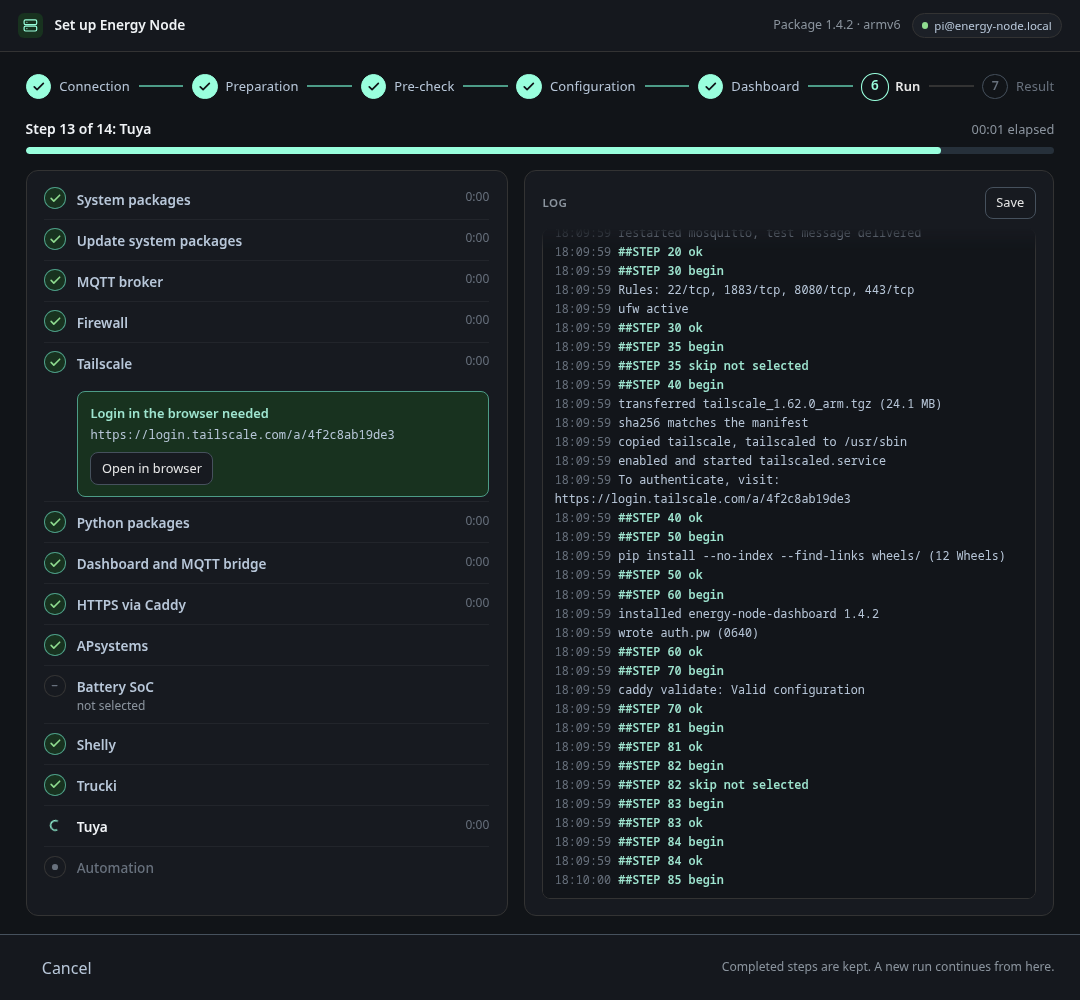
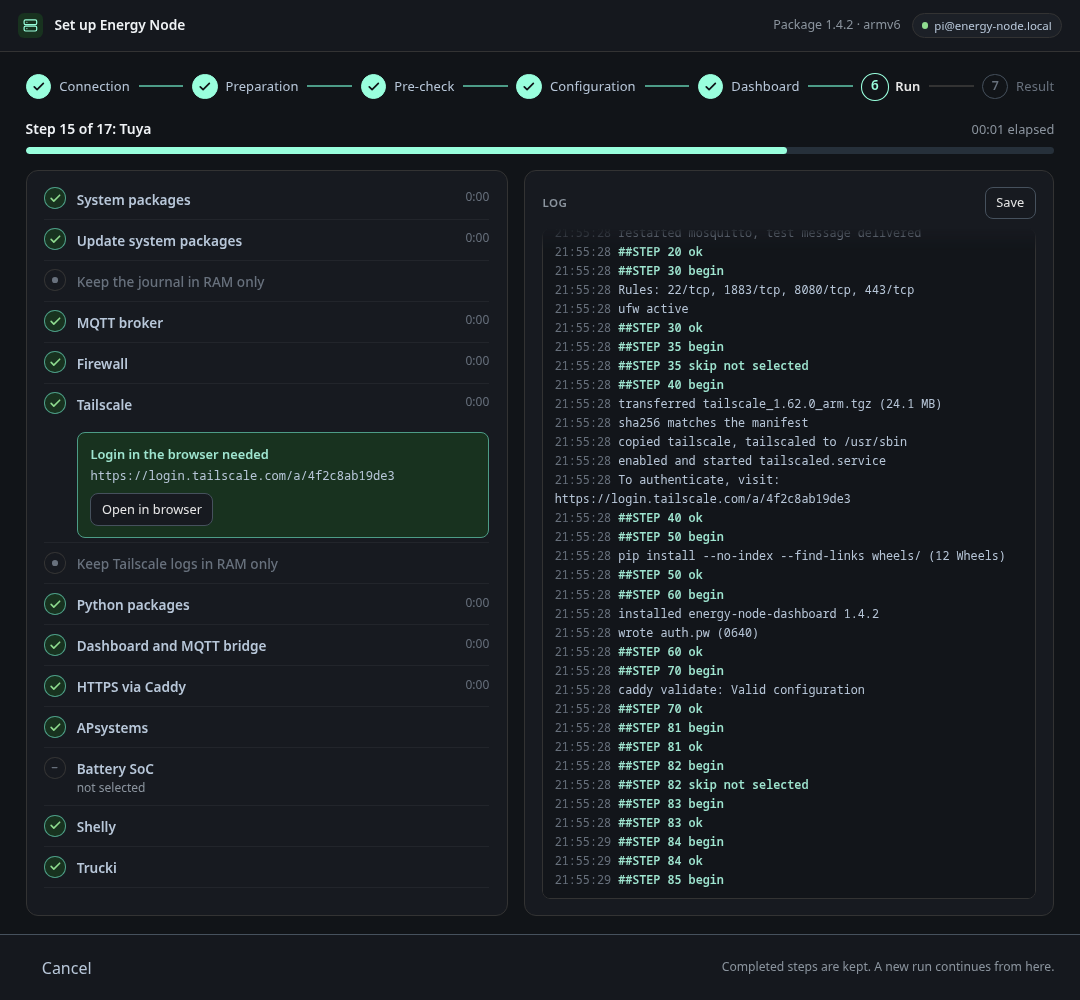
test(installer): show the journal and tailscale log steps in the fakehost
The default fakehost scenario now carries the optional journal step 17
(off), the Tailscale log step 41 (on, requires 40) and the example step
89 (on, first install only). The --journal-step flag is removed, the
update scenario keeps 89 as modbus. The installer-run and
installer-configure screenshots are regenerated with the new steps.

diff --git a/installer/webui/cmd/fakehost/scenario.go b/installer/webui/cmd/fakehost/scenario.go
@@ -5,7 +5,6 @@ import (
 	"encoding/json"
 	"fmt"
 	"net/http"
-	"sort"
 	"strconv"
 	"strings"
 	"sync"
@@ -38,9 +37,6 @@ type options struct {
 	// deltaVerifyFails: die Teilübertragung besteht die Prüfung auf dem Gerät
 	// nicht. Erst die ganze Übertragung (force_full_transfer) gelingt.
 	deltaVerifyFails bool
-	// journalStep: das Manifest enthält den optionalen Schritt 17 (Journal nur
-	// im Arbeitsspeicher). Die Vorlage kennt ihn nicht, darum nur auf Wunsch.
-	journalStep bool
 	// packageOffline: diese Pakete lassen sich nicht herunterladen und sind auf
 	// dem Gerät nicht installiert. Vorbereiten fragt, bis je Paket "repo" oder
 	// "skip" geantwortet ist.
@@ -368,9 +364,11 @@ func newScenario(name string, opts options) *stagedBackend {
 	steps := []hostapi.StepView{
 		{ID: "10"},
 		{ID: "15", Optional: true, Default: true},
+		{ID: "17", Optional: true, Default: false},
 		{ID: "20"}, {ID: "30"},
 		{ID: "35", Optional: true, Default: false, Requires: "83"},
 		{ID: "40", Optional: true, Default: true},
+		{ID: "41", Optional: true, Default: true, Requires: "40"},
 		{ID: "50"}, {ID: "60"},
 		{ID: "70", Optional: true, Default: true},
 		{ID: "81", ServiceID: "apsystems", Unit: "apsystems-ez1.service", Optional: true, Default: true, Kind: "device"},
@@ -380,14 +378,11 @@ func newScenario(name string, opts options) *stagedBackend {
 		{ID: "85", ServiceID: "tuya", Unit: "tuya.service", Optional: true, Default: true, Kind: "device"},
 		{ID: "88", ServiceID: "automation", Unit: "automation.service", Optional: true, Default: true, Kind: "service"},
 	}
-	if opts.journalStep {
-		steps = append(steps, hostapi.StepView{ID: "17", Optional: true, Default: false})
-		sort.SliceStable(steps, func(i, j int) bool { return steps[i].ID < steps[j].ID })
-	}
 	if !update {
 		// Das Beispiel (Schritt 89): nur bei der Erstinstallation, braucht
-		// APsystems, Shelly und die Automation.
-		steps = append(steps, hostapi.StepView{ID: "89", Optional: true, Default: false, Requires: "81,83,88"})
+		// APsystems, Shelly und die Automation. Seine Vorgabe "an" gilt nur
+		// dort, ein Update laesst es aus.
+		steps = append(steps, hostapi.StepView{ID: "89", Optional: true, Default: true, FirstInstallOnly: true, Requires: "81,83,88"})
 	}
 	if update {
 		steps = append(steps, hostapi.StepView{ID: "89", ServiceID: "modbus", Unit: "modbus.service", Optional: true, Default: false, Kind: "service"})
@@ -404,7 +399,7 @@ func newScenario(name string, opts options) *stagedBackend {
 		BundleBytes: 41 * 1024 * 1024, WheelCount: 12, UnitCount: 8, TemplateCount: 7,
 	}
 
-	selected := map[string]bool{"15": true, "35": false, "40": true, "70": true, "81": true, "82": false, "83": true, "84": true, "85": true, "88": true, "89": false}
+	selected := map[string]bool{"15": true, "17": false, "35": false, "40": true, "41": true, "70": true, "81": true, "82": false, "83": true, "84": true, "85": true, "88": true, "89": true}
 	fake.SelectionView = &hostapi.SelectionView{Steps: selected, Source: "manifest-default"}
 
 	if update {
@@ -420,9 +415,11 @@ func newScenario(name string, opts options) *stagedBackend {
 			Steps: []hostapi.PlanStep{
 				{ID: "10", State: "done"},
 				{ID: "15", State: "pending", Optional: true, Selected: true},
+				{ID: "17", State: "deselected", Optional: true},
 				{ID: "20", State: "done"}, {ID: "30", State: "done"},
 				{ID: "35", State: "deselected", Optional: true},
 				{ID: "40", State: "done", Optional: true, Selected: true},
+				{ID: "41", State: "pending", Optional: true, Selected: true},
 				{ID: "50", State: "pending"}, {ID: "60", State: "pending"},
 				{ID: "70", State: "done", Optional: true, Selected: true},
 				{ID: "81", State: "done", Optional: true, Selected: true, Unit: "apsystems-ez1.service", From: "v1.0.2", To: "v1.0.2"},

diff --git a/installer/webui/cmd/fakehost/main_test.go b/installer/webui/cmd/fakehost/main_test.go
@@ -243,24 +243,36 @@ func TestOfflinePackageAsksUntilChosen(t *testing.T) {
 	}
 }
 
-func TestTheJournalStepAppearsOnlyOnRequest(t *testing.T) {
-	has := func(b *stagedBackend) bool {
-		view, err := b.Manifest(context.Background())
-		if err != nil {
-			t.Fatalf("manifest: %v", err)
-		}
-		for _, step := range view.Steps {
-			if step.ID == "17" {
-				return step.Optional && !step.Default
-			}
-		}
-		return false
+// Das Standardszenario hat den Journal-Schritt 17 (aus), 41 (an, braucht 40)
+// und das Beispiel 89 (an, nur Erstinstallation). Die Auswahl passt dazu.
+func TestTheDraftScenarioOffersJournalTailscaleLogAndExample(t *testing.T) {
+	backend := newScenario("vorlage", options{})
+	view, err := backend.Manifest(context.Background())
+	if err != nil {
+		t.Fatalf("manifest: %v", err)
 	}
-	if has(newScenario("vorlage", options{})) {
-		t.Errorf("step 17 must not be part of the draft scenario")
+	steps := map[string]hostapi.StepView{}
+	for _, step := range view.Steps {
+		steps[step.ID] = step
 	}
-	if !has(newScenario("vorlage", options{journalStep: true})) {
-		t.Errorf("--journal-step must add step 17 as optional and off by default")
+	if step := steps["17"]; !step.Optional || step.Default {
+		t.Errorf("step 17 = %+v, want optional and off by default", step)
+	}
+	if step := steps["41"]; !step.Optional || !step.Default || step.Requires != "40" {
+		t.Errorf("step 41 = %+v, want optional, on by default, requires 40", step)
+	}
+	if step := steps["89"]; !step.Optional || !step.Default || !step.FirstInstallOnly || step.Requires != "81,83,88" {
+		t.Errorf("step 89 = %+v, want optional, on by default for a first install only, requires 81,83,88", step)
+	}
+	selection, err := backend.Selection(context.Background())
+	if err != nil {
+		t.Fatal(err)
+	}
+	want := map[string]bool{"17": false, "41": true, "89": true}
+	for id, on := range want {
+		if got, listed := selection.Steps[id]; !listed || got != on {
+			t.Errorf("selection[%s] = %v (listed %v), want %v", id, got, listed, on)
+		}
 	}
 }
 

diff --git a/installer/webui/cmd/fakehost/main.go b/installer/webui/cmd/fakehost/main.go
@@ -48,7 +48,6 @@ func main() {
 	systemUpdates := flag.Bool("system-updates", false, "Systempakete auf Abfrage und in der Diagnose: drei ausstehende Updates")
 	abiMismatch := flag.Bool("abi-mismatch", false, "das Gerät hat Python 3.13, das Paket 3.11: Vorbereiten scheitert, bis die Online-Installation freigegeben ist")
 	deltaFails := flag.Bool("delta-verify-fails", false, "die Teilübertragung besteht die Prüfung nicht: Vorbereiten scheitert, bis das ganze Paket neu übertragen wird")
-	journalStep := flag.Bool("journal-step", false, "das Manifest enthält den optionalen Schritt 17 (Journal nur im Arbeitsspeicher)")
 	packageOffline := flag.String("package-offline", "", "diese Pakete lassen sich nicht herunterladen, Format caddy[,tailscale]: Vorbereiten fragt, bis je Paket geantwortet ist")
 	diagnoseDelay := flag.Duration("diagnose-delay", 0, "Pause zwischen den Abschnitten der Diagnose im Strom, apt wartet das Achtfache (0: die Diagnose kommt auf einmal)")
 	flag.Parse()
@@ -61,7 +60,7 @@ func main() {
 	if err != nil {
 		log.Fatal(err)
 	}
-	opts := options{dashboard: *dashboard, trusted: *trusted, holdStep: *hold, stepDelay: *delay, systemUpdates: *systemUpdates, abiMismatch: *abiMismatch, deltaVerifyFails: *deltaFails, journalStep: *journalStep, packageOffline: splitPackageList(*packageOffline), english: *language == "en", diagnoseDelay: *diagnoseDelay}
+	opts := options{dashboard: *dashboard, trusted: *trusted, holdStep: *hold, stepDelay: *delay, systemUpdates: *systemUpdates, abiMismatch: *abiMismatch, deltaVerifyFails: *deltaFails, packageOffline: splitPackageList(*packageOffline), english: *language == "en", diagnoseDelay: *diagnoseDelay}
 	if *failStep != "" {
 		opts.failStep, opts.failCode = splitFailSpec(*failStep)
 	}
